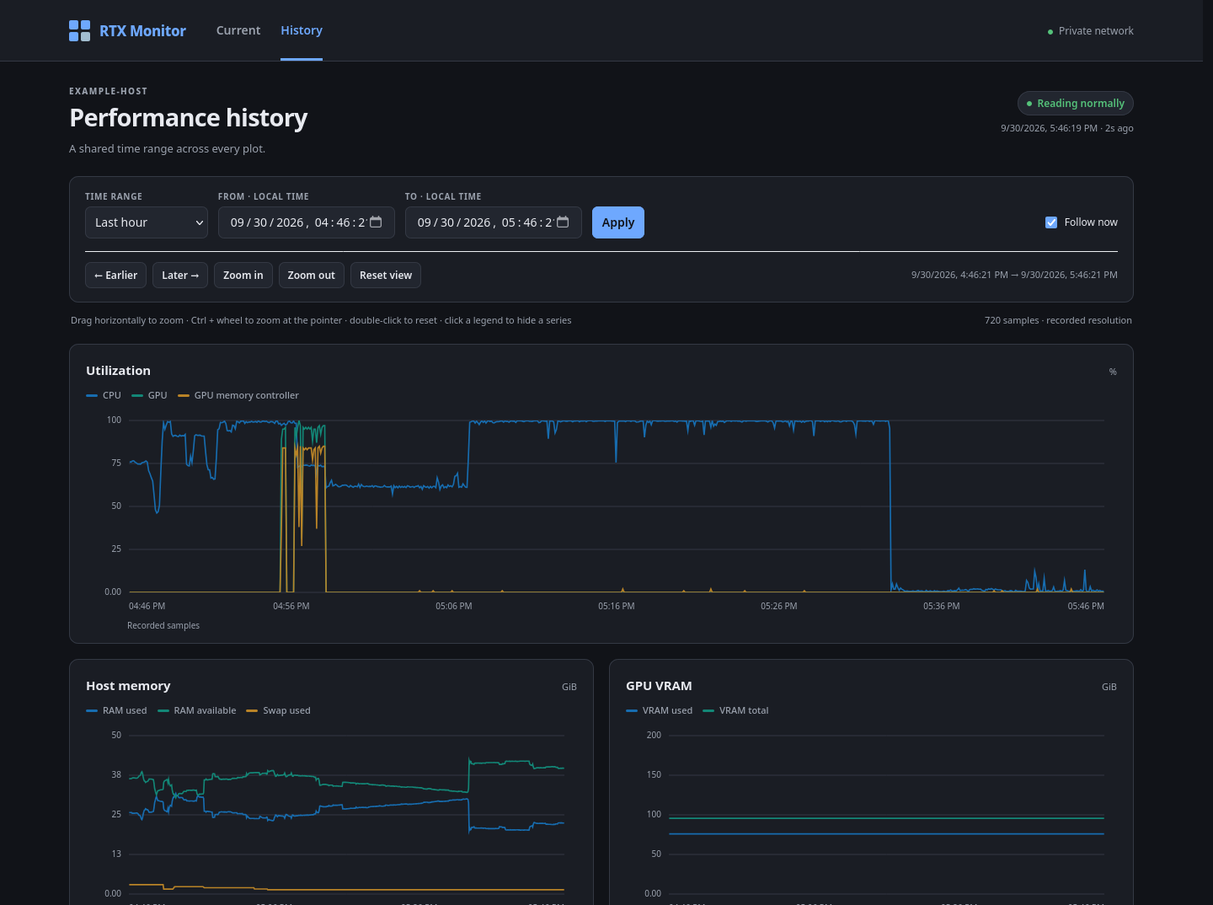
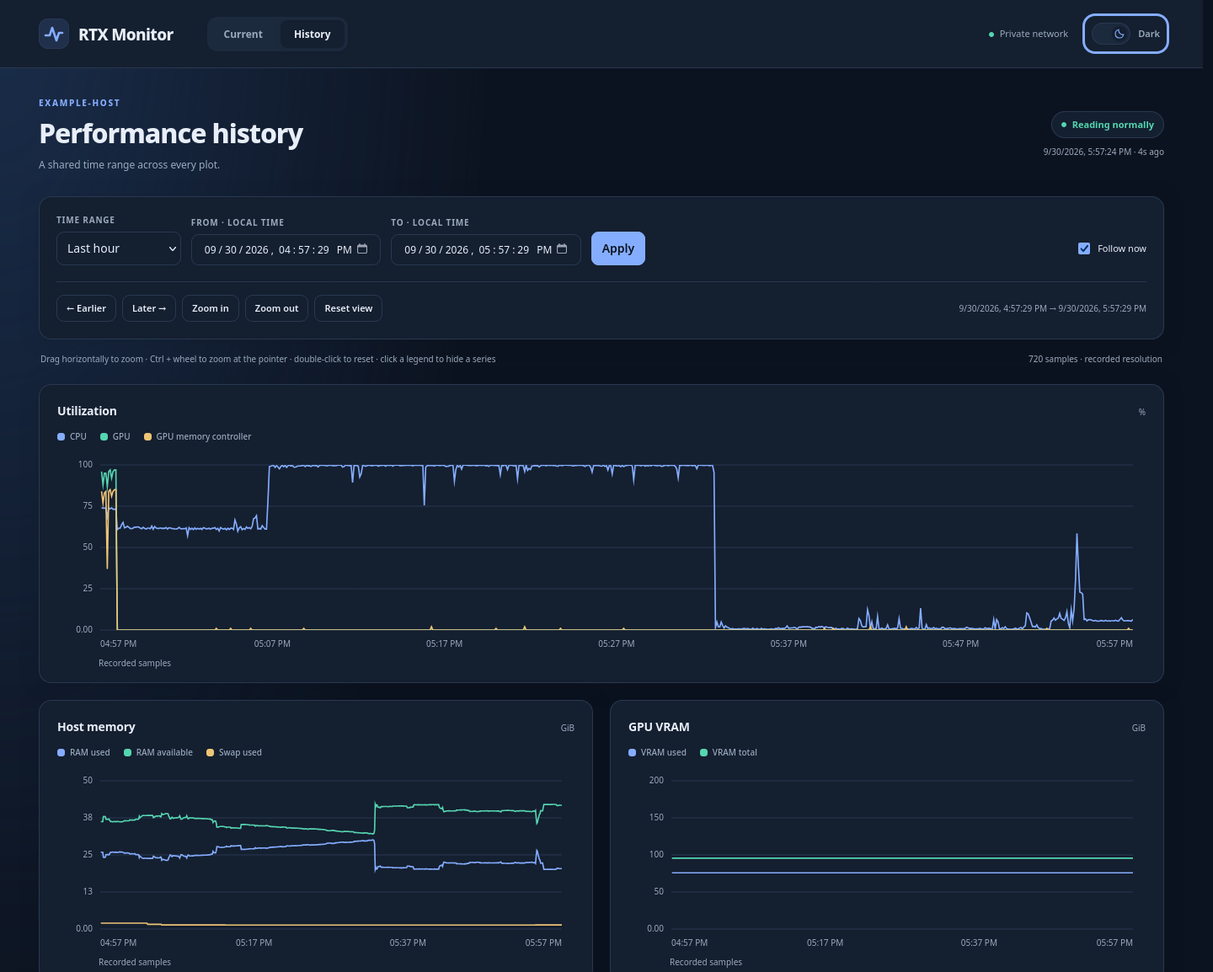
Refresh dashboard and add persistent light and dark themes

diff --git a/static/style.css b/static/style.css
@@ -1,9 +1,148 @@
-:root{color-scheme:dark;--bg:#111318;--paper:#1a1d24;--secondary:#22262f;--ink:#e8eaf0;--muted:#9ca3af;--line:#343944;--accent:#6ea8fe;--good:#55c27a;--warn:#e6b450;--bad:#e56b6f;font-family:system-ui,-apple-system,BlinkMacSystemFont,"Segoe UI",sans-serif;font-size:14px}
-button,select,input{border-color:var(--line);background:var(--secondary);color:var(--ink)}button:hover{background:#2b303b}button.primary{color:#111318}input:focus,button:focus-visible,select:focus{outline-color:var(--accent)}.mark i:last-child{background:#87909f}.status{background:var(--secondary)!important}.status::before{background:#9ca3af}.notice{border-color:#806b3c;background:#2a271d;color:var(--warn)}.meter{background:var(--line)}.meter.gpu span{background:var(--good)}.meter.ram span{background:#a98bd1}.meter.emc span{background:var(--warn)}.rows hr,.viewtools{border-color:var(--line)}.controls,.chart-panel{background:var(--paper)!important}.tooltip{background:var(--secondary)!important;color:var(--ink);box-shadow:0 3px 15px #00000070}
-*{box-sizing:border-box}body{margin:0;background:var(--bg);color:var(--ink)}a{color:var(--accent);text-decoration:none}button,input,select{font:inherit}button,select,input{border:1px solid var(--line);border-radius:7px;background:var(--secondary);color:var(--ink);padding:8px 11px}button{cursor:pointer;font-weight:550}button:hover{border-color:var(--accent);background:#2b303b}button:disabled{opacity:.45;cursor:default}button.primary{background:var(--accent);border-color:var(--accent);color:#111318}input:focus,button:focus-visible,select:focus{outline:2px solid var(--accent);outline-offset:2px}input[type=checkbox]{accent-color:var(--accent)}
-.topbar{background:var(--paper);border-bottom:1px solid var(--line)}.topinner{max-width:1320px;padding:0 28px;margin:auto;display:flex;align-items:center;gap:36px;min-height:72px}.brand{font-size:17px;font-weight:720;letter-spacing:-.4px;display:flex;gap:11px;align-items:center}.mark{width:25px;height:25px;display:grid;grid-template-columns:1fr 1fr;gap:3px}.mark i{background:var(--accent);border-radius:2px}.mark i:last-child{background:#a2bdcf}nav{align-self:stretch;display:flex;gap:24px}nav a{display:flex;align-items:center;border-bottom:3px solid transparent;padding:3px 0 0;color:var(--muted);font-weight:600}nav a.active{border-color:var(--accent);color:var(--accent)}.private{margin-left:auto;font-size:12px;color:var(--muted);white-space:nowrap}.private::before{content:"";display:inline-block;width:6px;height:6px;background:var(--good);border-radius:50%;margin-right:7px}
-main{max-width:1320px;margin:0 auto;padding:28px}.heading{display:flex;justify-content:space-between;gap:20px;align-items:flex-start;margin-bottom:23px}.eyebrow{text-transform:uppercase;letter-spacing:1.4px;font-size:10px;font-weight:750;color:var(--muted);margin-bottom:7px}h1{font-size:29px;letter-spacing:-.8px;line-height:1.2;margin:0 0 9px;font-weight:680}h2{font-size:15px;letter-spacing:-.1px;margin:0;font-weight:680}p{line-height:1.55;margin:0}.subtitle{font-size:13px;color:var(--muted)}.status-wrap{text-align:right;padding-top:7px}.status{display:inline-flex;align-items:center;gap:7px;border:1px solid var(--line);background:white;border-radius:20px;padding:5px 10px;font-size:12px;font-weight:600}.status::before{content:"";width:6px;height:6px;background:#9da8b3;border-radius:50%}.status.good{color:var(--good)}.status.good::before{background:var(--good)}.status.warn{color:var(--warn)}.status.warn::before{background:var(--warn)}.status.bad{color:var(--bad)}.status.bad::before{background:var(--bad)}.last-read{font-size:11px;color:var(--muted);margin-top:7px;font-variant-numeric:tabular-nums}.notice{padding:11px 14px;border:1px solid #dfc89f;border-radius:8px;background:#fffaf0;color:#81561e;font-size:12px;line-height:1.5;margin-bottom:18px}.notice[hidden]{display:none}
-.cards{display:grid;grid-template-columns:repeat(4,minmax(0,1fr));gap:16px;margin-bottom:20px}.card,.panel{background:var(--paper);border:1px solid var(--line);border-radius:11px}.card{padding:19px 20px 17px}.card-label{font-size:11px;letter-spacing:.8px;text-transform:uppercase;color:var(--muted);font-weight:650}.card-value{font-size:37px;line-height:1.3;font-weight:660;letter-spacing:-1.5px;margin:8px 0 4px;font-variant-numeric:tabular-nums;white-space:nowrap}.card-value small{font-size:16px;letter-spacing:0;font-weight:500;color:var(--muted);margin-left:5px}.card-note{font-size:12px;color:var(--muted);min-height:19px}.meter{background:#ecf0f4;height:4px;border-radius:3px;overflow:hidden;margin-top:16px}.meter span{display:block;height:100%;background:var(--accent);width:0;transition:width .25s}.meter.gpu span{background:#158573}.meter.ram span{background:#8066a5}.meter.emc span{background:#bc832a}
-.columns{display:grid;grid-template-columns:1.12fr 1fr;gap:20px}.panel{padding:21px;margin-bottom:20px;min-width:0}.panel-head{display:flex;justify-content:space-between;align-items:baseline;gap:12px;margin-bottom:19px}.hint{font-size:11px;color:var(--muted);font-weight:400}.cores{display:grid;grid-template-columns:repeat(3,minmax(0,1fr));gap:15px 20px}.core-top{display:flex;justify-content:space-between;font-size:12px}.core-top strong{font-weight:650;font-variant-numeric:tabular-nums}.core .meter{margin-top:7px;height:5px}.core-clock{font-size:10px;color:var(--muted);margin-top:5px}.core.offline{opacity:.45}.rows{display:grid;grid-template-columns:minmax(0,1fr) auto;gap:12px 16px;font-size:13px}.rows dt{color:var(--muted);margin:0}.rows dd{margin:0;text-align:right;font-variant-numeric:tabular-nums;overflow-wrap:anywhere}.rows hr{grid-column:1/-1;width:100%;border:0;border-top:1px solid #edf0f3;margin:1px 0}.subnote{font-size:11px;color:var(--muted);line-height:1.5;margin-top:17px}.small-value{font-size:24px;font-weight:650;letter-spacing:-.5px}.emc-block{display:flex;justify-content:space-between;align-items:center}.footer{display:flex;justify-content:space-between;gap:15px;font-size:11px;color:var(--muted);padding-top:3px;padding-bottom:12px}.mono{font-family:ui-monospace,SFMono-Regular,Consolas,monospace;font-size:11px;overflow-wrap:anywhere}
-.controls{background:#fff;border:1px solid var(--line);border-radius:11px;padding:16px 18px;margin-bottom:13px}.controls-top{display:flex;align-items:end;gap:12px;flex-wrap:wrap}.field{display:flex;flex-direction:column;gap:5px}.field label{font-size:10px;text-transform:uppercase;letter-spacing:.65px;font-weight:650;color:var(--muted)}.field input{max-width:210px}.live-toggle{display:flex;gap:6px;align-items:center;font-size:12px;margin-left:auto;white-space:nowrap;padding-bottom:9px}.viewtools{display:flex;align-items:center;gap:7px;flex-wrap:wrap;border-top:1px solid #edf0f3;margin-top:15px;padding-top:12px}.viewtools button{font-size:12px;padding:6px 10px}.viewtools .range-label{margin-left:auto;font-size:11px;color:var(--muted);font-variant-numeric:tabular-nums}.instructions{font-size:11px;color:var(--muted);margin:0 2px 20px;display:flex;gap:10px;justify-content:space-between;flex-wrap:wrap}.chart-grid{display:grid;grid-template-columns:1fr 1fr;gap:18px}.chart-panel{background:white;border:1px solid var(--line);border-radius:11px;padding:19px 19px 13px;min-width:0}.chart-panel.wide{grid-column:1/-1}.chart-panel .panel-head{margin-bottom:11px}.legend{display:flex;gap:12px;flex-wrap:wrap;margin-bottom:9px;min-height:17px}.legend button{border:0;background:none;padding:0;display:flex;align-items:center;gap:6px;font-size:11px;font-weight:500;color:var(--muted)}.legend button span{width:14px;height:3px;border-radius:2px}.legend button.disabled{opacity:.35}.canvas-wrap{position:relative;height:232px;width:100%}.chart-panel.wide .canvas-wrap{height:248px}canvas{width:100%;height:100%;display:block;touch-action:pan-y}.tooltip{position:absolute;z-index:5;pointer-events:none;background:#142331;color:#f5f7fa;border-radius:7px;box-shadow:0 3px 15px #14233130;padding:9px 11px;font-size:11px;line-height:1.7;max-width:285px;white-space:pre-line;font-variant-numeric:tabular-nums}.tooltip[hidden]{display:none}.chart-footer{font-size:10px;color:var(--muted);margin-left:49px;min-height:15px}.history-footer{margin-top:22px}.empty{color:var(--muted);padding:20px 0;font-size:13px}.sr-only{position:absolute;width:1px;height:1px;overflow:hidden;clip:rect(0,0,0,0)}
-@media(min-width:1500px){main,.topinner{max-width:1400px}}@media(max-width:850px){.cards{grid-template-columns:repeat(2,minmax(0,1fr))}.columns{grid-template-columns:1fr}.chart-grid{grid-template-columns:1fr}.chart-panel.wide{grid-column:auto}.topinner{gap:25px}.private{font-size:10px}.footer{flex-direction:column;gap:5px}.live-toggle{margin-left:0}.viewtools .range-label{flex-basis:100%;margin-left:0;margin-top:5px}.chart-panel .canvas-wrap,.chart-panel.wide .canvas-wrap{height:225px}}@media(max-width:520px){main{padding:22px 14px}.topinner{padding:0 14px;gap:22px;min-height:62px}.brand{font-size:15px}.mark{width:20px;height:20px}.private{display:none}nav{gap:19px;font-size:13px}.heading{gap:10px}h1{font-size:26px}.status-wrap{max-width:42%}.last-read{line-height:1.5}.card{padding:15px}.card-value{font-size:31px}.card-value small{font-size:13px}.cards{gap:11px}.panel{padding:17px}.cores{gap:15px 14px}.panel-head .hint{max-width:55%;text-align:right}.controls{padding:14px}.controls-top{gap:10px}.field input{width:100%;max-width:100%}.field.dates{flex:1 1 145px}.chart-panel{padding:16px 10px 12px}.chart-panel .panel-head,.chart-panel .legend{padding:0 5px}.instructions{line-height:1.6}.tooltip{max-width:225px}.subtitle{font-size:12px}.rows{font-size:12px;gap:12px}.status{font-size:11px}}
+:root {
+  color-scheme: light;
+  --bg: #f3f6fa; --paper: #fff; --secondary: #edf2f8; --ink: #18263c;
+  --muted: #5d6d84; --line: #dce4ee; --accent: #2860d7; --accent-soft: #eaf0ff;
+  --good: #087c62; --warn: #956200; --bad: #c03951; --violet: #7952ba;
+  --rose: #c44c65; --notice-bg: #fff7e3; --selection: #2860d720;
+  --chart-1: #2860d7; --chart-2: #09816c; --chart-3: #ac7309; --chart-4: #8452bb;
+  --shadow: 0 3px 16px #243b6010; --glow: #dae8ff;
+  font-family: Inter, ui-sans-serif, system-ui, -apple-system, BlinkMacSystemFont, "Segoe UI", sans-serif;
+  font-size: 14px;
+}
+:root[data-theme="dark"] {
+  color-scheme: dark;
+  --bg: #0c1320; --paper: #141f30; --secondary: #1c2a3e; --ink: #e8eef8;
+  --muted: #9babbe; --line: #293950; --accent: #85adff; --accent-soft: #202f4c;
+  --good: #55d5b0; --warn: #efc575; --bad: #ff8a9e; --violet: #c0a0f5;
+  --rose: #f69fb0; --notice-bg: #302b20; --selection: #85adff26;
+  --chart-1: #85adff; --chart-2: #55d5b0; --chart-3: #efc575; --chart-4: #c0a0f5;
+  --shadow: 0 3px 20px #00000016; --glow: #192c49;
+}
+* { box-sizing: border-box; }
+body { margin: 0; background: radial-gradient(ellipse at 0 0, var(--glow), transparent 580px), var(--bg); color: var(--ink); }
+a { color: var(--accent); text-decoration: none; }
+button, input, select { font: inherit; }
+button, select, input {
+  border: 1px solid var(--line); border-radius: 9px; background: var(--paper);
+  color: var(--ink); padding: 9px 12px;
+}
+button { cursor: pointer; font-weight: 600; }
+button:hover { background: var(--secondary); border-color: var(--muted); }
+button:disabled { opacity: .45; cursor: default; }
+button.primary { background: var(--accent); border-color: var(--accent); color: var(--paper); }
+:root[data-theme="dark"] button.primary { color: #0c1320; }
+input:focus-visible, button:focus-visible, select:focus-visible, a:focus-visible { outline: 3px solid var(--accent); outline-offset: 3px; }
+input[type="checkbox"] { accent-color: var(--accent); }
+.topbar { background: var(--paper); border-bottom: 1px solid var(--line); }
+.topinner { max-width: 1400px; padding: 0 32px; margin: auto; display: flex; align-items: center; gap: 40px; min-height: 80px; }
+.brand { display: flex; align-items: center; gap: 11px; font-size: 19px; font-weight: 750; letter-spacing: -.65px; color: var(--ink); white-space: nowrap; }
+.mark { width: 36px; height: 36px; display: grid; place-items: center; color: var(--accent); background: var(--accent-soft); border: 1px solid var(--line); border-radius: 11px; }
+.mark svg { width: 28px; height: 28px; }
+nav { display: flex; gap: 5px; padding: 4px; border-radius: 12px; background: var(--secondary); }
+nav a { padding: 8px 16px; border-radius: 8px; color: var(--muted); font-size: 12px; font-weight: 650; }
+nav a.active { background: var(--paper); color: var(--ink); box-shadow: 0 2px 5px #0000000a; }
+.header-actions { margin-left: auto; display: flex; align-items: center; gap: 23px; }
+.private { font-size: 11px; color: var(--muted); white-space: nowrap; }
+.private::before { content: ""; display: inline-block; width: 6px; height: 6px; background: var(--good); border-radius: 50%; margin-right: 7px; }
+.theme-toggle { display: flex; align-items: center; gap: 9px; padding: 5px; border: 0; background: transparent; font-size: 11px; color: var(--muted); min-width: 88px; }
+.theme-toggle:hover { background: transparent; color: var(--ink); }
+.theme-track { width: 46px; height: 26px; padding: 3px; background: var(--secondary); border: 1px solid var(--line); border-radius: 20px; display: block; }
+.theme-thumb { display: grid; place-items: center; width: 18px; height: 18px; background: var(--paper); color: var(--accent); border-radius: 50%; box-shadow: 0 1px 3px #00000020; transition: transform .15s ease; }
+.theme-thumb svg { width: 14px; height: 14px; }
+.theme-thumb .moon { display: none; }
+[data-theme="dark"] .theme-thumb { transform: translateX(20px); }
+[data-theme="dark"] .theme-thumb .sun { display: none; }
+[data-theme="dark"] .theme-thumb .moon { display: block; }
+main { max-width: 1400px; margin: 0 auto; padding: 34px 32px 24px; }
+.heading { display: flex; justify-content: space-between; gap: 20px; align-items: center; margin-bottom: 28px; }
+.eyebrow { text-transform: uppercase; letter-spacing: 1.7px; font-size: 10px; font-weight: 750; color: var(--accent); margin-bottom: 9px; }
+h1 { font-size: 32px; letter-spacing: -1.1px; line-height: 1.2; margin: 0 0 9px; font-weight: 720; }
+h2 { font-size: 14px; letter-spacing: -.2px; margin: 0; font-weight: 700; }
+p { line-height: 1.6; margin: 0; }
+.subtitle { font-size: 12px; color: var(--muted); }
+.status-wrap { text-align: right; }
+.status { display: inline-flex; align-items: center; gap: 7px; border: 1px solid var(--line); background: var(--paper); border-radius: 20px; padding: 7px 11px; font-size: 11px; font-weight: 650; }
+.status::before { content: ""; width: 6px; height: 6px; background: currentColor; border-radius: 50%; }
+.status.good { color: var(--good); }.status.warn { color: var(--warn); }.status.bad { color: var(--bad); }
+.last-read { font-size: 10px; color: var(--muted); margin-top: 9px; font-variant-numeric: tabular-nums; }
+.notice { padding: 12px 16px; border: 1px solid var(--warn); border-radius: 10px; background: var(--notice-bg); color: var(--warn); font-size: 12px; line-height: 1.5; margin-bottom: 20px; }
+[hidden] { display: none !important; }
+.cards { display: grid; grid-template-columns: repeat(4, minmax(0, 1fr)); gap: 16px; margin-bottom: 26px; }
+.card, .panel, .chart-panel, .controls { background: var(--paper); border: 1px solid var(--line); border-radius: 15px; box-shadow: var(--shadow); }
+.card { --tone: var(--accent); padding: 18px 20px; position: relative; overflow: hidden; }
+.card::before { content: ""; position: absolute; top: 20px; left: 0; width: 3px; height: 28px; background: var(--tone); border-radius: 0 3px 3px 0; }
+.tone-green { --tone: var(--good); }.tone-violet { --tone: var(--violet); }.tone-amber { --tone: var(--warn); }.tone-rose { --tone: var(--rose); }
+.card-top { display: flex; align-items: center; justify-content: space-between; gap: 8px; }
+.card-label { font-size: 10px; letter-spacing: 1px; text-transform: uppercase; color: var(--muted); font-weight: 650; }
+.metric-icon { color: var(--tone); display: grid; place-items: center; width: 30px; height: 30px; border-radius: 9px; background: var(--secondary); flex-shrink: 0; }
+.metric-icon svg { width: 17px; height: 17px; }
+.card-value { font-size: 38px; line-height: 1.3; font-weight: 650; letter-spacing: -1.6px; margin: 10px 0 6px; font-variant-numeric: tabular-nums; white-space: nowrap; }
+.card-value small { font-size: 15px; letter-spacing: 0; font-weight: 500; color: var(--muted); margin-left: 5px; }
+.card-note { font-size: 11px; line-height: 1.5; color: var(--muted); min-height: 17px; }
+.card #gpu-note { overflow: hidden; text-overflow: ellipsis; white-space: nowrap; }
+.meter { background: var(--secondary); height: 5px; border-radius: 4px; overflow: hidden; margin-top: 17px; }
+.meter span { display: block; height: 100%; background: var(--accent); width: 0; border-radius: inherit; transition: width .25s; }
+.meter.gpu span { background: var(--good); }.meter.ram span { background: var(--violet); }.meter.emc span { background: var(--warn); }
+.columns { display: grid; grid-template-columns: 1.12fr 1fr; gap: 22px; }
+.panel { padding: 23px; margin-bottom: 22px; min-width: 0; }
+.panel-head { display: flex; justify-content: space-between; align-items: baseline; gap: 14px; padding-bottom: 16px; border-bottom: 1px solid var(--line); margin-bottom: 20px; }
+.hint { font-size: 10px; color: var(--muted); font-weight: 400; text-align: right; }
+.panel-head .hint { max-width: 65%; }
+.cores { display: grid; grid-template-columns: repeat(3, minmax(0, 1fr)); gap: 10px; }
+.core { background: var(--secondary); border: 1px solid var(--line); padding: 11px; border-radius: 9px; }
+.core-top { display: flex; justify-content: space-between; font-size: 11px; }
+.core-top strong { font-weight: 650; font-variant-numeric: tabular-nums; }
+.core .meter { margin-top: 9px; height: 4px; background: var(--line); }
+.core-clock { font-size: 10px; color: var(--muted); margin-top: 7px; }
+.core.offline { opacity: .45; }
+.rows { display: grid; grid-template-columns: minmax(0, 1fr) auto; gap: 13px 16px; font-size: 12px; }
+.rows dt { color: var(--muted); margin: 0; }.rows dd { margin: 0; text-align: right; font-weight: 550; font-variant-numeric: tabular-nums; overflow-wrap: anywhere; }
+.rows hr { grid-column: 1 / -1; width: 100%; border: 0; border-top: 1px solid var(--line); margin: 3px 0; }
+.subnote { font-size: 10px; color: var(--muted); line-height: 1.6; margin-top: 17px; }
+.footer { display: flex; justify-content: space-between; gap: 15px; font-size: 10px; color: var(--muted); padding: 8px 0 12px; }
+.mono { font-family: ui-monospace, SFMono-Regular, Consolas, monospace; font-size: 11px; overflow-wrap: anywhere; }
+.controls { padding: 20px; margin-bottom: 15px; }
+.controls-top { display: flex; align-items: end; gap: 12px; flex-wrap: wrap; }
+.field { display: flex; flex-direction: column; gap: 7px; }
+.field label { font-size: 10px; text-transform: uppercase; letter-spacing: .8px; font-weight: 650; color: var(--muted); }
+.field input { max-width: 235px; font-size: 12px; }
+.live-toggle { display: flex; gap: 6px; align-items: center; font-size: 11px; margin-left: auto; white-space: nowrap; padding-bottom: 10px; }
+.viewtools { display: flex; align-items: center; gap: 7px; flex-wrap: wrap; border-top: 1px solid var(--line); margin-top: 19px; padding-top: 15px; }
+.viewtools button { font-size: 11px; padding: 7px 11px; }
+.viewtools .range-label { margin-left: auto; font-size: 10px; color: var(--muted); font-variant-numeric: tabular-nums; }
+.instructions { font-size: 10px; color: var(--muted); margin: 0 2px 22px; display: flex; gap: 10px; justify-content: space-between; flex-wrap: wrap; line-height: 1.6; }
+.chart-grid { display: grid; grid-template-columns: 1fr 1fr; gap: 20px; }
+.chart-panel { padding: 21px 21px 15px; min-width: 0; }.chart-panel.wide { grid-column: 1 / -1; }
+.chart-panel .panel-head { margin-bottom: 12px; padding-bottom: 0; border: 0; }
+.legend { display: flex; gap: 16px; flex-wrap: wrap; margin-bottom: 13px; min-height: 17px; }
+.legend button { border: 0; background: none; padding: 0; display: flex; align-items: center; gap: 6px; font-size: 10px; font-weight: 500; color: var(--muted); }
+.legend button span { width: 9px; height: 9px; border-radius: 3px; }.legend button.disabled { opacity: .35; }
+.canvas-wrap { position: relative; height: 220px; width: 100%; }.chart-panel.wide .canvas-wrap { height: 240px; }
+canvas { width: 100%; height: 100%; display: block; touch-action: pan-y; }
+.tooltip { position: absolute; z-index: 5; pointer-events: none; background: var(--paper); color: var(--ink); border: 1px solid var(--line); border-radius: 9px; box-shadow: 0 5px 22px #00000020; padding: 10px 13px; font-size: 11px; line-height: 1.7; max-width: 285px; white-space: pre-line; font-variant-numeric: tabular-nums; }
+.chart-footer { font-size: 10px; color: var(--muted); margin-left: 49px; min-height: 15px; }.history-footer { margin-top: 22px; }
+.empty { color: var(--muted); padding: 20px 0; font-size: 13px; }
+.sr-only { position: absolute; width: 1px; height: 1px; overflow: hidden; clip: rect(0,0,0,0); }
+@media (max-width: 950px) {
+  .topinner { gap: 22px; }.header-actions { gap: 12px; }.private { display: none; }
+  .cards { grid-template-columns: repeat(2, minmax(0, 1fr)); }.columns { grid-template-columns: 1fr; }
+  .chart-grid { grid-template-columns: 1fr; }.chart-panel.wide { grid-column: auto; }
+  .footer { flex-direction: column; gap: 6px; }.live-toggle { margin-left: 0; }
+  .viewtools .range-label { flex-basis: 100%; margin-left: 0; margin-top: 5px; }
+}
+@media (max-width: 560px) {
+  main { padding: 24px 16px; }.topinner { padding: 14px 16px; gap: 12px; flex-wrap: wrap; }
+  .brand { font-size: 17px; }.mark { width: 30px; height: 30px; border-radius: 9px; }.mark svg { width: 24px; }
+  nav { order: 3; flex-basis: 100%; }nav a { flex: 1; text-align: center; }
+  .header-actions { margin-left: auto; }.theme-toggle { min-width: 78px; }
+  .heading { align-items: flex-start; gap: 12px; margin-bottom: 22px; }h1 { font-size: 25px; }.eyebrow { font-size: 9px; }
+  .status-wrap { max-width: 42%; padding-top: 1px; }.status { font-size: 9px; padding: 6px 8px; }.last-read { font-size: 9px; line-height: 1.5; }
+  .card { padding: 14px; border-radius: 12px; }.card-value { font-size: 30px; }.card-value small { font-size: 12px; }
+  .card-label { font-size: 9px; letter-spacing: .5px; }.metric-icon { width: 25px; height: 25px; }.metric-icon svg { width: 15px; }
+  .card-note { font-size: 10px; }.cards { gap: 10px; }.panel { padding: 17px; border-radius: 12px; }
+  .cores { grid-template-columns: repeat(2, minmax(0, 1fr)); }.controls { padding: 15px; }.controls-top { gap: 12px; }
+  .field input { width: 100%; max-width: 100%; }.field.dates { flex: 1 1 145px; }.chart-panel { padding: 17px 10px 12px; }
+  .chart-panel .panel-head, .chart-panel .legend { padding: 0 6px; }.tooltip { max-width: 225px; }
+  .subtitle { font-size: 11px; }.rows { font-size: 11px; gap: 13px 10px; }.hint { font-size: 9px; }
+}
+@media (prefers-reduced-motion: reduce) { *, *::before, *::after { transition: none !important; } }

diff --git a/static/current.html b/static/current.html
@@ -1,15 +1,16 @@
 <!doctype html>
-<html lang="en"><head><meta charset="utf-8"><meta name="viewport" content="width=device-width, initial-scale=1"><meta name="color-scheme" content="dark"><title>Current · RTX Monitor</title><link rel="icon" href="data:,"><link rel="stylesheet" href="/static/style.css"><script defer src="/static/common.js"></script><script defer src="/static/current.js"></script></head>
-<body><header class="topbar"><div class="topinner"><a class="brand" href="/"><span class="mark" aria-hidden="true"><i></i><i></i><i></i><i></i></span>RTX Monitor</a><nav aria-label="Main navigation"><a class="active" href="/" aria-current="page">Current</a><a href="/history">History</a></nav><span class="private">Private network</span></div></header>
+<html lang="en"><head><meta charset="utf-8"><meta name="viewport" content="width=device-width, initial-scale=1"><meta name="color-scheme" content="light dark"><title>Current · RTX Monitor</title><link rel="icon" href="data:,"><script src="/static/common.js"></script><link rel="stylesheet" href="/static/style.css"><script defer src="/static/current.js"></script></head>
+<body><header class="topbar"><div class="topinner"><a class="brand" href="/"><span class="mark" aria-hidden="true"><svg viewBox="0 0 28 28" fill="none"><path d="M4 16h5l3-9 5 15 3-9h4" stroke="currentColor" stroke-width="2.6" stroke-linecap="round" stroke-linejoin="round"/></svg></span>RTX Monitor</a><nav aria-label="Main navigation"><a class="active" href="/" aria-current="page">Current</a><a href="/history">History</a></nav><div class="header-actions"><span class="private">Private network</span><button id="theme-toggle" class="theme-toggle" type="button" role="switch" aria-checked="false" aria-label="Dark theme"><span class="theme-track" aria-hidden="true"><span class="theme-thumb"><svg class="sun" viewBox="0 0 20 20" fill="none" stroke="currentColor" stroke-width="1.6"><circle cx="10" cy="10" r="3"/><path d="M10 1v2m0 14v2M1 10h2m14 0h2M3.6 3.6 5 5m10 10 1.4 1.4M3.6 16.4 5 15M15 5l1.4-1.4"/></svg><svg class="moon" viewBox="0 0 20 20" fill="none" stroke="currentColor" stroke-width="1.6"><path d="M16.8 11.4A7 7 0 0 1 8.6 3.2a7 7 0 1 0 8.2 8.2Z"/></svg></span></span><span id="theme-label">Light</span></button></div></div></header>
 <main><div class="heading"><div><div class="eyebrow" id="host-name">Machine telemetry</div><h1>Current readings</h1><p class="subtitle" id="machine-model">Waiting for the first reading</p></div><div class="status-wrap"><span id="connection-status" class="status">Connecting</span><div id="last-read" class="last-read">No reading yet</div></div></div><div id="notice" class="notice" hidden role="status"></div>
 <section class="cards" aria-label="Primary readings">
-<article class="card"><div class="card-label">CPU utilization</div><div class="card-value" id="cpu-value">—</div><div class="card-note" id="cpu-note">Across online cores</div><div class="meter"><span id="cpu-meter"></span></div></article>
-<article class="card"><div class="card-label">GPU utilization</div><div class="card-value" id="gpu-value">—</div><div class="card-note" id="gpu-note">NVIDIA GPU</div><div class="meter gpu"><span id="gpu-meter"></span></div></article>
-<article class="card"><div class="card-label">Host RAM in use</div><div class="card-value" id="ram-value">—</div><div class="card-note" id="ram-note">System memory</div><div class="meter ram"><span id="ram-meter"></span></div></article>
-<article class="card"><div class="card-label">GPU power</div><div class="card-value" id="power-value">—</div><div class="card-note" id="power-note">Board power draw</div><div class="subnote">Reported by nvidia-smi</div></article>
-<article class="card"><div class="card-label">CPU temperature</div><div class="card-value" id="cpu-temp-value">—</div><div class="card-note">Processor sensor</div></article>
-<article class="card"><div class="card-label">GPU temperature</div><div class="card-value" id="gpu-temp-value">—</div><div class="card-note">NVIDIA GPU sensor</div></article>
-<article class="card"><div class="card-label">GPU VRAM in use</div><div class="card-value" id="vram-value">—</div><div class="card-note" id="vram-card-note">Video memory</div><div class="meter gpu"><span id="vram-card-meter"></span></div></article>
+<article class="card tone-blue"><div class="card-top"><div class="card-label">CPU utilization</div><span class="metric-icon" aria-hidden="true"><svg viewBox="0 0 24 24" fill="none" stroke="currentColor" stroke-width="1.6" stroke-linecap="round" stroke-linejoin="round"><rect x="5" y="5" width="14" height="14" rx="3"/><path d="M9 1v4m6-4v4M9 19v4m6-4v4M1 9h4m-4 6h4m14-6h4m-4 6h4"/><rect x="9" y="9" width="6" height="6" rx="1"/></svg></span></div><div class="card-value" id="cpu-value">—</div><div class="card-note" id="cpu-note">Across online cores</div><div class="meter"><span id="cpu-meter"></span></div></article>
+<article class="card tone-green"><div class="card-top"><div class="card-label">GPU utilization</div><span class="metric-icon" aria-hidden="true"><svg viewBox="0 0 24 24" fill="none" stroke="currentColor" stroke-width="1.6" stroke-linecap="round" stroke-linejoin="round"><rect x="3" y="5" width="18" height="13" rx="2"/><circle cx="10" cy="11.5" r="3"/><path d="M16 9h2m-2 4h2M6 18v3m4-3v3m4-3v3"/></svg></span></div><div class="card-value" id="gpu-value">—</div><div class="card-note" id="gpu-note">NVIDIA GPU</div><div class="meter gpu"><span id="gpu-meter"></span></div></article>
+<article class="card tone-violet"><div class="card-top"><div class="card-label">Host RAM in use</div><span class="metric-icon" aria-hidden="true"><svg viewBox="0 0 24 24" fill="none" stroke="currentColor" stroke-width="1.6" stroke-linecap="round" stroke-linejoin="round"><rect x="3" y="6" width="18" height="12" rx="2"/><path d="M7 10v4m5-4v4m5-4v4M6 18v3m4-3v3m4-3v3m4-3v3"/></svg></span></div><div class="card-value" id="ram-value">—</div><div class="card-note" id="ram-note">System memory</div><div class="meter ram"><span id="ram-meter"></span></div></article>
+<article class="card tone-amber"><div class="card-top"><div class="card-label">GPU power</div><span class="metric-icon" aria-hidden="true"><svg viewBox="0 0 24 24" fill="none" stroke="currentColor" stroke-width="1.6" stroke-linecap="round" stroke-linejoin="round"><path d="m13 2-9 12h7l-1 8 10-13h-7l1-7Z"/></svg></span></div><div class="card-value" id="power-value">—</div><div class="card-note" id="power-note">Board power draw</div><div class="subnote">Reported by nvidia-smi</div></article>
+<article class="card tone-rose"><div class="card-top"><div class="card-label">CPU temperature</div><span class="metric-icon" aria-hidden="true"><svg viewBox="0 0 24 24" fill="none" stroke="currentColor" stroke-width="1.6" stroke-linecap="round" stroke-linejoin="round"><path d="M9 14.5V5a3 3 0 0 1 6 0v9.5a5 5 0 1 1-6 0Z"/><path d="M12 8v10m6-12h3m-3 4h2"/></svg></span></div><div class="card-value" id="cpu-temp-value">—</div><div class="card-note">Processor sensor</div></article>
+<article class="card tone-rose"><div class="card-top"><div class="card-label">GPU temperature</div><span class="metric-icon" aria-hidden="true"><svg viewBox="0 0 24 24" fill="none" stroke="currentColor" stroke-width="1.6" stroke-linecap="round" stroke-linejoin="round"><path d="M9 14.5V5a3 3 0 0 1 6 0v9.5a5 5 0 1 1-6 0Z"/><path d="M12 8v10m6-12h3m-3 4h2"/></svg></span></div><div class="card-value" id="gpu-temp-value">—</div><div class="card-note">NVIDIA GPU sensor</div></article>
+<article class="card tone-green"><div class="card-top"><div class="card-label">GPU VRAM in use</div><span class="metric-icon" aria-hidden="true"><svg viewBox="0 0 24 24" fill="none" stroke="currentColor" stroke-width="1.6" stroke-linecap="round" stroke-linejoin="round"><rect x="4" y="4" width="16" height="16" rx="3"/><path d="M8 9h8M8 13h5M8 17h8"/></svg></span></div><div class="card-value" id="vram-value">—</div><div class="card-note" id="vram-card-note">Video memory</div><div class="meter gpu"><span id="vram-card-meter"></span></div></article>
+<article class="card tone-blue"><div class="card-top"><div class="card-label">Host load · 1 min</div><span class="metric-icon" aria-hidden="true"><svg viewBox="0 0 24 24" fill="none" stroke="currentColor" stroke-width="1.6" stroke-linecap="round" stroke-linejoin="round"><path d="M2 13h5l3-8 4 15 3-9h5"/></svg></span></div><div class="card-value" id="load-value">—</div><div class="card-note" id="load-note">Runnable / waiting tasks</div></article>
 </section>
 <div class="columns"><div>
 <section class="panel"><div class="panel-head"><h2>GPU</h2><span class="hint" id="gpu-name">NVIDIA GPU</span></div><dl class="rows"><dt>VRAM used / total</dt><dd id="vram-detail">—</dd><dt>VRAM used</dt><dd id="vram-percent">—</dd><dt>Memory-controller utilization</dt><dd id="gpu-memory-util">—</dd><dt>Temperature</dt><dd id="gpu-temp">—</dd><dt>Power draw / limit</dt><dd id="gpu-power-detail">—</dd><dt>Fan</dt><dd id="gpu-fan">—</dd><hr><dt>Graphics clock</dt><dd id="gpu-clock">—</dd><dt>Memory clock</dt><dd id="gpu-memory-clock">—</dd><dt>Performance state</dt><dd id="gpu-pstate">—</dd><dt>Driver</dt><dd id="gpu-driver">—</dd><dt>PCI bus</dt><dd id="gpu-bus">—</dd></dl><div class="meter gpu"><span id="vram-meter"></span></div></section>

diff --git a/static/history.js b/static/history.js
@@ -1,7 +1,7 @@
 "use strict";
 (() => {
   const {byId, has, number, text} = M;
-  const palette = ["#176db0", "#138777", "#b98327", "#8564aa"];
+
   const definitions = [
     {title: "Utilization", unit: "%", max: 100, wide: true, keys: [["cpu_percent", "CPU"], ["gpu_percent", "GPU"], ["gpu_memory_percent", "GPU memory controller"]]},
     {title: "Host memory", unit: "GiB", factor: 1073741824, keys: [["ram_used_bytes", "RAM used"], ["ram_available_bytes", "RAM available"], ["swap_used_bytes", "Swap used"]]},
@@ -40,7 +40,7 @@
       const legend = document.createElement("div"); legend.className = "legend";
       definition.keys.forEach(([key, label], index) => {
         const button = document.createElement("button"); button.setAttribute("aria-pressed", "true");
-        const swatch = document.createElement("span"); swatch.style.background = palette[index]; button.append(swatch, document.createTextNode(label));
+        const swatch = document.createElement("span"); swatch.style.background = `var(--chart-${index + 1})`; button.append(swatch, document.createTextNode(label));
         button.onclick = () => { this.hidden.has(key) ? this.hidden.delete(key) : this.hidden.add(key); button.classList.toggle("disabled", this.hidden.has(key)); button.setAttribute("aria-pressed", String(!this.hidden.has(key))); this.draw(); };
         legend.append(button);
       });
@@ -94,12 +94,15 @@
       this.draw();
     }
     draw() {
+      const style = getComputedStyle(document.documentElement);
+      const color = name => style.getPropertyValue(name).trim();
+      const palette = [1, 2, 3, 4].map(n => color(`--chart-${n}`));
       const width = this.width = Math.max(180, this.wrap.clientWidth), height = this.height = this.wrap.clientHeight;
       const ratio = window.devicePixelRatio || 1;
       if (this.canvas.width !== Math.round(width * ratio) || this.canvas.height !== Math.round(height * ratio)) {
         this.canvas.width = Math.round(width * ratio); this.canvas.height = Math.round(height * ratio);
       }
-      const ctx = this.ctx; ctx.setTransform(ratio, 0, 0, ratio, 0, 0); ctx.clearRect(0, 0, width, height); ctx.fillStyle = "#1a1d24"; ctx.fillRect(0, 0, width, height);
+      const ctx = this.ctx; ctx.setTransform(ratio, 0, 0, ratio, 0, 0); ctx.clearRect(0, 0, width, height); ctx.fillStyle = color("--paper"); ctx.fillRect(0, 0, width, height);
       const left = 51, right = width - 15, top = 12, bottom = height - 32, span = to - from;
       const x = t => left + (t - from) / span * (right - left);
       let maximum = 0, readings = false;
@@ -110,10 +113,10 @@
       });
       const upper = this.def.max || niceMax(maximum * 1.07);
       const y = value => bottom - value / upper * (bottom - top);
-      ctx.font = "10px system-ui, sans-serif"; ctx.fillStyle = "#9ca3af"; ctx.lineWidth = 1;
+      ctx.font = "10px system-ui, sans-serif"; ctx.fillStyle = color("--muted"); ctx.lineWidth = 1;
       for (let i = 0; i <= 4; i++) {
         const value = upper * i / 4, yy = y(value);
-        ctx.strokeStyle = "#343944"; ctx.beginPath(); ctx.moveTo(left, yy); ctx.lineTo(right, yy); ctx.stroke();
+        ctx.strokeStyle = color("--line"); ctx.beginPath(); ctx.moveTo(left, yy); ctx.lineTo(right, yy); ctx.stroke();
         ctx.textAlign = "right"; ctx.fillText(axisNumber(value), left - 9, yy + 3);
       }
       const ticks = width < 430 ? 3 : width < 750 ? 4 : 7;
@@ -124,7 +127,7 @@
         ctx.fillText(label, xx, bottom + 20);
       }
       if (!this.data || !this.data.timestamps.length || !readings) {
-        ctx.fillStyle = "#9ca3af"; ctx.textAlign = "center"; ctx.font = "12px system-ui, sans-serif";
+        ctx.fillStyle = color("--muted"); ctx.textAlign = "center"; ctx.font = "12px system-ui, sans-serif";
         ctx.fillText(!this.data ? "Loading measurements…" : !this.data.timestamps.length ? "No samples in this time range" : this.hidden.size === this.def.keys.length ? "All series hidden" : "No sensor readings in this time range", (left + right) / 2, (top + bottom) / 2);
         this.tooltip.hidden = true; return;
       }
@@ -157,8 +160,8 @@
         }
       });
       if (this.drag) {
-        ctx.fillStyle = "#6ea8fe24"; ctx.fillRect(Math.min(this.drag.start, this.drag.end), top, Math.abs(this.drag.end - this.drag.start), bottom - top);
-        ctx.strokeStyle = "#6ea8fe"; ctx.lineWidth = 1; ctx.strokeRect(Math.min(this.drag.start, this.drag.end), top, Math.abs(this.drag.end - this.drag.start), bottom - top);
+        ctx.fillStyle = color("--selection"); ctx.fillRect(Math.min(this.drag.start, this.drag.end), top, Math.abs(this.drag.end - this.drag.start), bottom - top);
+        ctx.strokeStyle = color("--accent"); ctx.lineWidth = 1; ctx.strokeRect(Math.min(this.drag.start, this.drag.end), top, Math.abs(this.drag.end - this.drag.start), bottom - top);
       }
       if (this.hover && !this.drag && this.hover.x >= left && this.hover.x <= right && this.hover.y >= top && this.hover.y <= bottom) {
         const target = from + (this.hover.x - left) / (right - left) * span;
@@ -167,7 +170,7 @@
         let idx = low;
         if (idx > 0 && Math.abs(times[idx - 1] - target) < Math.abs(times[idx] - target)) idx--;
         if (Math.abs(times[idx] - target) <= this.data.bucket_seconds * 1.5 && this.data.sample_counts[idx]) {
-          const xx = x(times[idx]); ctx.strokeStyle = "#9ca3af"; ctx.setLineDash([3, 3]); ctx.beginPath(); ctx.moveTo(xx, top); ctx.lineTo(xx, bottom); ctx.stroke(); ctx.setLineDash([]);
+          const xx = x(times[idx]); ctx.strokeStyle = color("--muted"); ctx.setLineDash([3, 3]); ctx.beginPath(); ctx.moveTo(xx, top); ctx.lineTo(xx, bottom); ctx.stroke(); ctx.setLineDash([]);
           const lines = [M.date(times[idx])];
           this.def.keys.forEach(([key, label]) => {
             if (this.hidden.has(key)) return;
@@ -188,6 +191,7 @@
     }
   }
   const charts = definitions.map(def => new Chart(def));
+  window.addEventListener("themechange", () => charts.forEach(chart => chart.draw()));
   function displayRange() {
     byId("from").value = localInput(from); byId("to").value = localInput(to);
     text("range-label", `${M.date(from)} → ${M.date(to)}`);

diff --git a/static/history.html b/static/history.html
@@ -1,6 +1,6 @@
 <!doctype html>
-<html lang="en"><head><meta charset="utf-8"><meta name="viewport" content="width=device-width, initial-scale=1"><meta name="color-scheme" content="dark"><title>History · RTX Monitor</title><link rel="icon" href="data:,"><link rel="stylesheet" href="/static/style.css"><script defer src="/static/common.js"></script><script defer src="/static/history.js"></script></head>
-<body><header class="topbar"><div class="topinner"><a class="brand" href="/"><span class="mark" aria-hidden="true"><i></i><i></i><i></i><i></i></span>RTX Monitor</a><nav aria-label="Main navigation"><a href="/">Current</a><a class="active" href="/history" aria-current="page">History</a></nav><span class="private">Private network</span></div></header>
+<html lang="en"><head><meta charset="utf-8"><meta name="viewport" content="width=device-width, initial-scale=1"><meta name="color-scheme" content="light dark"><title>History · RTX Monitor</title><link rel="icon" href="data:,"><script src="/static/common.js"></script><link rel="stylesheet" href="/static/style.css"><script defer src="/static/history.js"></script></head>
+<body><header class="topbar"><div class="topinner"><a class="brand" href="/"><span class="mark" aria-hidden="true"><svg viewBox="0 0 28 28" fill="none"><path d="M4 16h5l3-9 5 15 3-9h4" stroke="currentColor" stroke-width="2.6" stroke-linecap="round" stroke-linejoin="round"/></svg></span>RTX Monitor</a><nav aria-label="Main navigation"><a href="/">Current</a><a class="active" href="/history" aria-current="page">History</a></nav><div class="header-actions"><span class="private">Private network</span><button id="theme-toggle" class="theme-toggle" type="button" role="switch" aria-checked="false" aria-label="Dark theme"><span class="theme-track" aria-hidden="true"><span class="theme-thumb"><svg class="sun" viewBox="0 0 20 20" fill="none" stroke="currentColor" stroke-width="1.6"><circle cx="10" cy="10" r="3"/><path d="M10 1v2m0 14v2M1 10h2m14 0h2M3.6 3.6 5 5m10 10 1.4 1.4M3.6 16.4 5 15M15 5l1.4-1.4"/></svg><svg class="moon" viewBox="0 0 20 20" fill="none" stroke="currentColor" stroke-width="1.6"><path d="M16.8 11.4A7 7 0 0 1 8.6 3.2a7 7 0 1 0 8.2 8.2Z"/></svg></span></span><span id="theme-label">Light</span></button></div></div></header>
 <main><div class="heading"><div><div class="eyebrow" id="host-name">Machine telemetry</div><h1>Performance history</h1><p class="subtitle">A shared time range across every plot.</p></div><div class="status-wrap"><span id="connection-status" class="status">Connecting</span><div id="last-read" class="last-read">No reading yet</div></div></div><div id="notice" class="notice" hidden role="status"></div>
 <section class="controls" aria-label="History controls"><div class="controls-top">
 <div class="field"><label for="preset">Time range</label><select id="preset"><option value="900">Last 15 minutes</option><option value="3600" selected>Last hour</option><option value="21600">Last 6 hours</option><option value="86400">Last 24 hours</option><option value="604800">Last 7 days</option><option value="2592000">Last 30 days</option><option value="custom">Custom</option></select></div>

diff --git a/static/common.js b/static/common.js
@@ -1,4 +1,38 @@
 "use strict";
+// Apply the theme before the stylesheet paints; storage may be disabled by the browser.
+(() => {
+  const media = window.matchMedia("(prefers-color-scheme: dark)");
+  const key = "monitor-theme";
+  let preference = null;
+  try { preference = localStorage.getItem(key); } catch (_) {}
+  if (preference !== "light" && preference !== "dark") preference = null;
+  function apply() {
+    const theme = preference || (media.matches ? "dark" : "light");
+    document.documentElement.dataset.theme = theme;
+    const button = document.getElementById("theme-toggle");
+    if (button) {
+      button.setAttribute("aria-checked", String(theme === "dark"));
+      button.title = `Switch to ${theme === "dark" ? "light" : "dark"} theme`;
+      document.getElementById("theme-label").textContent = theme === "dark" ? "Dark" : "Light";
+    }
+    window.dispatchEvent(new Event("themechange"));
+  }
+  apply();
+  document.addEventListener("DOMContentLoaded", () => {
+    apply();
+    document.getElementById("theme-toggle").addEventListener("click", () => {
+      preference = document.documentElement.dataset.theme === "dark" ? "light" : "dark";
+      try { localStorage.setItem(key, preference); } catch (_) {}
+      apply();
+    });
+  });
+  media.addEventListener("change", () => { if (!preference) apply(); });
+  window.addEventListener("storage", event => {
+    if (event.key !== key && event.key !== null) return;
+    preference = event.newValue === "light" || event.newValue === "dark" ? event.newValue : null;
+    apply();
+  });
+})();
 window.M = (() => {
   const byId = id => document.getElementById(id);
   const has = v => typeof v === "number" && Number.isFinite(v);

diff --git a/static/current.js b/static/current.js
@@ -21,6 +21,8 @@
     card("ram-value", has(m.ram_used_bytes) ? m.ram_used_bytes / 1073741824 : null, "GiB");
     card("power-value", m.gpu_power_w, "W");
     card("cpu-temp-value", m.cpu_temp_c, "°C"); card("gpu-temp-value", m.gpu_temp_c, "°C");
+    card("load-value", m.load_1, "", 2);
+    text("load-note", `5 min ${number(m.load_5, 2)} · 15 min ${number(m.load_15, 2)}`);
     meter("cpu-meter", m.cpu_percent); meter("gpu-meter", m.gpu_percent);
     const ramPercent = has(m.ram_used_bytes) && m.ram_total_bytes > 0 ? 100 * m.ram_used_bytes / m.ram_total_bytes : null;
     meter("ram-meter", ramPercent);

diff --git a/README.md b/README.md
@@ -35,9 +35,13 @@ the existing installer. No generated project scaffolding or agent-specific files
 Real measurements from one Linux/NVIDIA host; the hostname is anonymized.
 Available sensors and readings vary by machine.
 
-![Current host and GPU readings](docs/current-example.png)
+Use the **Light / Dark** switch in the top-right corner on either page. The first
+visit follows your system theme; your choice is remembered in this browser.
+Charts change theme immediately without resetting the selected time range.
 
-![History plots with real recorded measurements](docs/history-example.png)
+![Current host and GPU readings in light mode](docs/current-example.png)
+
+![History plots with real recorded measurements in dark mode](docs/history-example.png)
 
 ## Requirements
 
